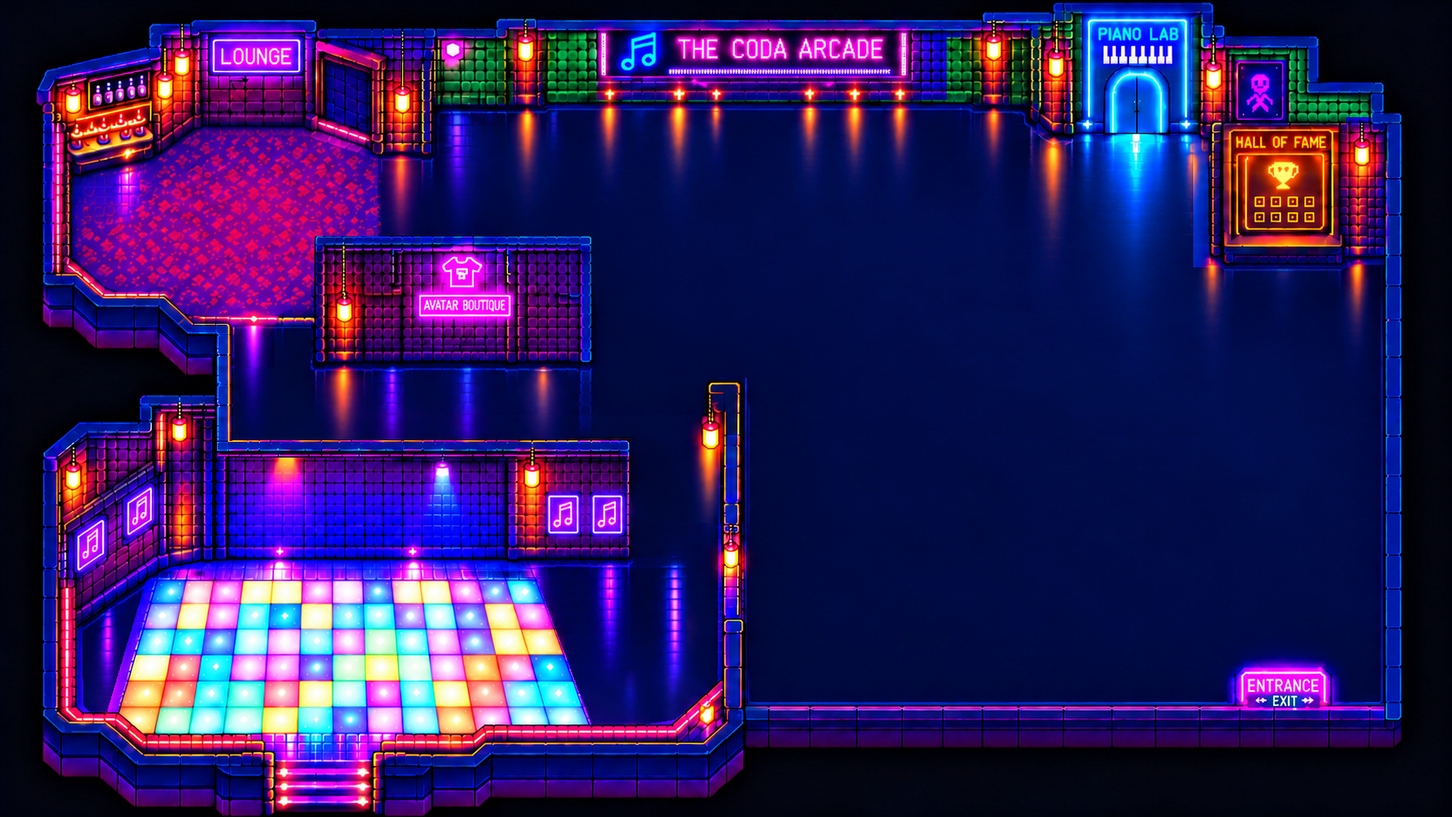
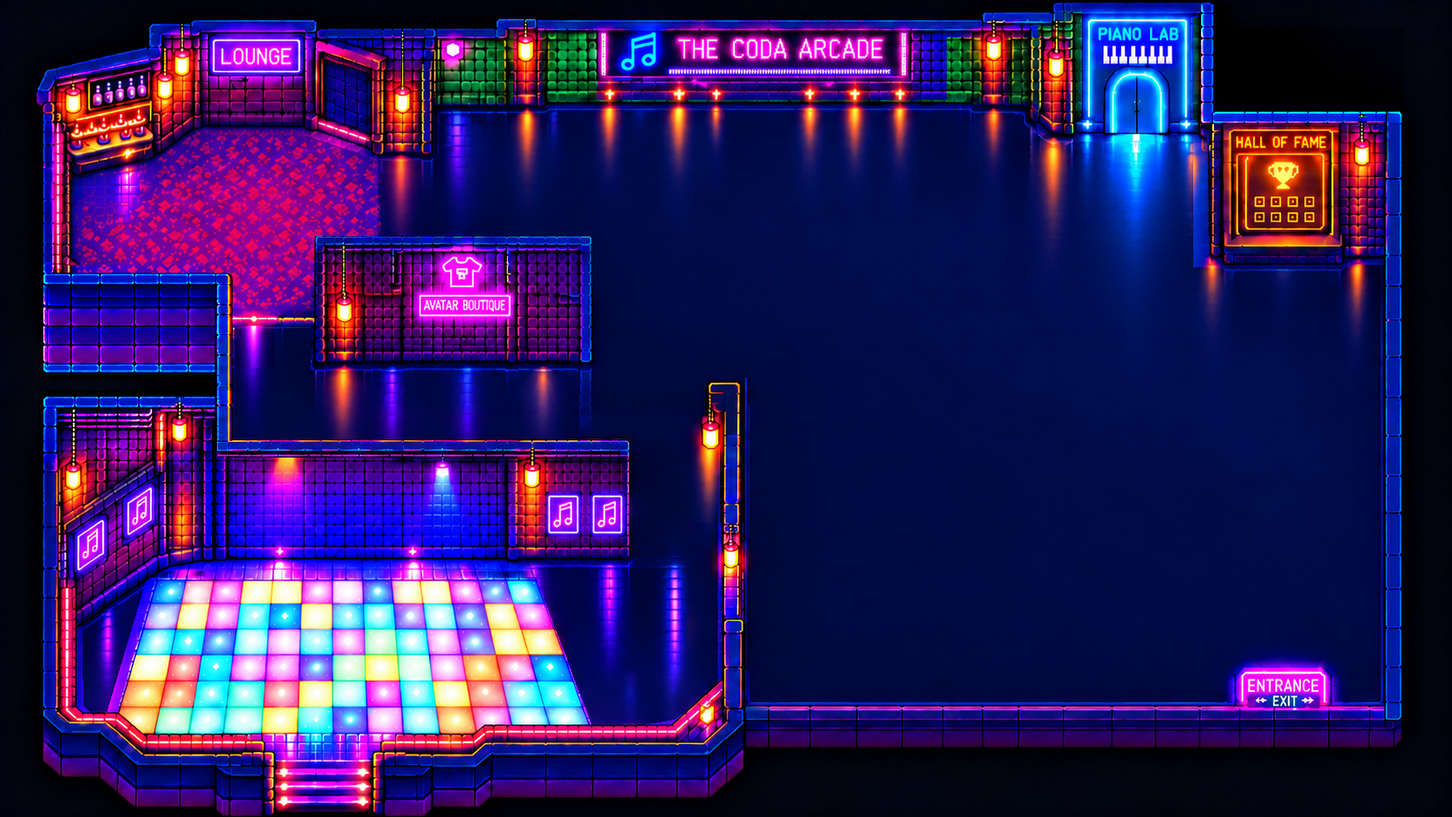
Connect wall roof caps and reshape the Hall of Fame exterior

Changed region(s): [[0.0311, 0.3082, 0.1866, 0.5855], [0.8086, 0.0, 0.9641, 0.2465]]

diff --git a/world-preview.html b/world-preview.html
@@ -28,7 +28,7 @@
 #assetStudio{position:fixed;left:12px;top:80px;z-index:65;width:min(334px,calc(100vw - 24px));max-height:calc(100dvh - 99px);overflow:auto;background:#171529f5;border:1px solid #eac17d;box-shadow:0 12px 50px #05010de0,0 0 22px #fdac4a24;border-radius:12px;padding:13px;color:#f8efff;font:12px system-ui;backdrop-filter:blur(9px)}
 #assetStudio[hidden]{display:none}#assetStudio .studioHead{display:flex;align-items:center;justify-content:space-between;color:#ffe4a4;font-size:14px;gap:9px;margin-bottom:7px}#assetStudio .studioActions{display:flex;flex-wrap:wrap;gap:5px;margin:7px 0}#assetStudio button{font:inherit;min-height:28px;padding:5px 7px}#assetStudio .studioActions button{flex:1 0 90px}#assetStudio button:disabled{opacity:.36;cursor:not-allowed}#assetStudio hr{border:0;border-top:1px solid #655374;margin:13px 0}#assetStudio .studioField{display:grid;gap:3px;margin:7px 0}#assetStudio .studioField>label{font-weight:650;color:#dccdf3}#assetStudio input:not([type=checkbox]),#assetStudio select{background:#131024;border:1px solid #866e9b;color:#fff;padding:7px;border-radius:5px;width:100%;font:inherit;min-width:0}#assetStudio input[type=checkbox]{accent-color:#f9c880}#assetStudio .studioGrid{display:grid;grid-template-columns:1fr 1fr;gap:8px}#assetStudio .studioTip{color:#c9b9d6;line-height:1.45;font-size:11px;margin:6px 0}#assetStudio #assetList{height:108px;padding:2px}#assetStudio #assetList option{padding:6px}#assetStudio #assetMessage{color:#bbf5e5;min-height:18px;overflow-wrap:anywhere}#assetStudio #assetSelection[hidden]{display:none}#assetStudio .studioCheck{display:inline-flex;align-items:center;gap:6px;margin:5px 11px 5px 0}#assetStudio .studioCollapsible{border:1px solid #655374;border-radius:7px;padding:8px}#assetStudio summary{cursor:pointer;color:#ffe4b1;font-weight:650}#assetToggle{border-color:#eecc7c}#view.asset-editing{cursor:crosshair;touch-action:none}#assetStudio #assetAdd{background:#675022;border-color:#e8b85c}#assetStudio #assetImport{border-color:#80d3ed}#assetStudio #assetExport{border-color:#80d3ed}#assetStudio #assetHelp{background:#271d3c}#assetStudio .studioHot{color:#ffcfa4}body.asset-console-open #layerEditor{display:none!important}@media(max-width:650px){#assetStudio{top:120px;max-height:calc(100dvh - 138px)}}
 /* DJ unlocks */ #panel .jukebox-track-locked{background:#79788612;border-radius:8px;padding:8px}#panel .jukebox-track-locked strong,#panel .jukebox-track-locked small{color:#a6a6b8}#panel .jukebox-track-locked [data-dj-requirement]{color:#e9d29e}
-</style><link rel="stylesheet" href="mobile-controls.css?v=controls-81"><link rel="stylesheet" href="world-mobile.css?v=dialogue-1"><script src="mobile-controls.js?v=joystick-41"></script><script src="finger-follow.js?v=student-29"></script><link rel="stylesheet" href="reward-notifications.css?v=music-30"><script src="reward-notifications.js?v=music-30"></script><link rel="stylesheet" href="developer-console.css?v=rugs-flip-20261031-1"><link rel="stylesheet" href="musician-ui.css?v=dialogue-1"><link rel="stylesheet" href="boutique-ui.css?v=avatar-50"><script src="collision-editor.js?v=mobile-28"></script><script src="world-object-catalog.js?v=floor-61"></script><script src="fishing-entrance.js?v=fishing-31"></script><script src="world-object-runtime.js?v=rugs-flip-20261031-1"></script><script src="world-lighting.js?v=boutique-rectangle-20261031-1"></script><script src="dj-floodlights.js?v=stage-lights-20261031-1"></script><script src="dance-floor.js?v=aligned-dance-20261031-1"></script><script src="floor-stars.js?v=glass-stars-20261031-1"></script><script src="dance-rhythm-engine.js?v=play-97"></script><script src="dance-floor-stage.js?v=dance-95"></script><script src="dj-library.js?v=dj-96"></script><link rel="stylesheet" href="dialogue-editor.css?v=music-30"><script src="dialogue-editor.js?v=music-30"></script><link rel="stylesheet" href="pixel-editor.css?v=pixels-103"><script src="pixel-selection.js?v=smooth-mask-1"></script><script src="layer-selection.js?v=layer-selection-20261030-1"></script><script src="pixel-editor.js?v=smooth-mask-1"></script><script src="world-floor-grid.js?v=flat-75"></script><link rel="stylesheet" href="education-editor.css?v=author-101"><link rel="stylesheet" href="education-visual-editor.css?v=author-101"><script src="education-visual-editor.js?v=author-101"></script><script src="education-editor.js?v=author-101"></script><link rel="stylesheet" href="music-history-editor.css?v=facts-20261029-1"><script src="music-history-editor.js?v=facts-20261029-1"></script><script src="main-counter-palette.js?v=emerald-20261031-1"></script><script src="environment-art.js?v=reflected-walls-20261031-1"></script><script src="world-character-editor.js?v=selected-order-20261030-1"></script><link rel="stylesheet" href="decor-library.css?v=decor-20261030-1"><script src="decor-library.js?v=rugs-flip-20261031-1"></script><script src="floor-palette-compat.js?v=glass-fringe-20261031-1"></script><script src="pathway-floor-fill.js?v=boutique-pathway-20261031-1"></script><script src="wall-reflections.js?v=reflected-walls-20261031-1"></script><script src="developer-console.js?v=reflected-walls-20261031-1"></script><script src="npc-visitors.js?v=visitors-42"></script><script src="npc-behavior.js?v=composers-2"></script><script src="pet-companion.js?v=premium-42"></script><script src="character-renderer.js?v=scholar-1"></script><link rel="stylesheet" href="artwork-editor.css?v=selection-edit-20261030-1"><script src="artwork-editor.js?v=feather-20261030-1"></script><script src="character-artwork-adapter.js?v=pixels-64"></script><script src="world-artwork-tools.js?v=glass-fringe-20261031-1"></script><script src="world-layer-renderer.js?v=rugs-flip-20261031-1"></script><link rel="stylesheet" href="musician-trivia.css?v=music-30"><script src="musician-trivia.js?v=music-30"></script><script src="musician-ui.js?v=dialogue-1"></script><script src="boutique-ui.js?v=classroom-54"></script><link rel="stylesheet" href="notes-shop.css?v=avatar-50"><link rel="stylesheet" href="music-notation.css?v=fishing-31"><script src="music-notation.js?v=fishing-31"></script><link rel="stylesheet" href="education-notation.css?v=education-90"><script src="education-notation.js?v=lessons-93"></script><script src="piano-wall-notation.js?v=learning-48"></script><link rel="stylesheet" href="room-developer-editor.css?v=pixels-64"><script src="room-developer-editor.js?v=rugs-flip-20261031-1"></script><link rel="stylesheet" href="rhythm-fishing.css?v=dialogue-1"><script src="rhythm-fishing-engine.js?v=fishing-47"></script><script src="fishing-progress.js?v=fishing-31"></script><script src="fishing-cave-layout.js?v=cave-32"></script><script src="fishing-cave-effects.js?v=cave-32"></script><script src="fish-shadow-motion.js?v=cave-32"></script><script src="rhythm-beaming.js?v=fishing-34"></script><link rel="stylesheet" href="dance-rhythm-game.css?v=play-97"><script src="dance-rhythm-game.js?v=play-97"></script><script src="dance-floor-world.js?v=play-97"></script><link rel="stylesheet" href="cave-camera.css?v=mobile-36"><script src="cave-camera.js?v=mobile-36"></script><link rel="stylesheet" href="fishing-battle.css?v=fishing-34"><script src="fishing-battle.js?v=mobile-36"></script><script src="fishing-music.js?v=music-42"></script><script src="fishing-boat.js?v=mobile-36"></script><script src="fishing-rhythm-input.js?v=controls-37"></script><link rel="stylesheet" href="fishing-practice.css?v=controls-37"><script src="fishing-practice.js?v=controls-37"></script><script src="rhythm-fishing.js?v=dialogue-1"></script><link rel="stylesheet" href="piano-lab.css?v=dialogue-1"><link rel="stylesheet" href="music-classroom.css?v=learning-48"><script src="notes-shop.js?v=profiles-87"></script><script src="room-fullscreen.js?v=learning-48"></script><script src="piano-melodies.js?v=learning-48"></script><script src="piano-lab.js?v=dialogue-1"></script><link rel="stylesheet" href="classroom-tutorials.css?v=lessons-93"><link rel="stylesheet" href="time-signature-lesson.css?v=lessons-51"><script src="time-signature-lesson.js?v=education-90"></script><link rel="stylesheet" href="classroom-quiz.css?v=learning-48"><script src="classroom-keyboard.js?v=author-101"></script><script src="classroom-quiz-pool.js?v=classroom-97"></script><script src="classroom-quiz.js?v=author-101"></script><script src="final-exam-bank.js?v=exam-86"></script><script src="classroom-curriculum-staff.js?v=keyboard-99"></script><script src="classroom-curriculum-rhythm.js?v=lessons-93"></script><script src="classroom-curriculum-expression.js?v=keyboard-99"></script><script src="classroom-exam-curriculum.js?v=keyboard-99"></script><link rel="stylesheet" href="classroom-exam-study.css?v=lessons-102"><script src="classroom-exam-study.js?v=author-101"></script><script src="classroom-accidentals-lesson.js?v=keyboard-99"></script><script src="classroom-tutorials.js?v=author-101"></script><link rel="stylesheet" href="final-exam.css?v=lessons-93"><script src="classroom-understanding-basics.js?v=classroom-97"></script><script src="classroom-understanding-staff.js?v=classroom-97"></script><script src="classroom-learning-paths-data.js?v=author-101"></script><script src="education-content.js?v=lessons-102"></script><link rel="stylesheet" href="classroom-learning-paths.css?v=lessons-93"><script src="classroom-learning-paths.js?v=author-101"></script><script src="final-exam.js?v=author-101"></script><script src="music-classroom.js?v=dialogue-1"></script><link rel="stylesheet" href="player-progression.css?v=mobile-28"><link rel="stylesheet" href="hall-of-fame.css?v=achievements-89"><link rel="stylesheet" href="arcade-vibes.css?v=vibes-82"><script src="arcade-vibes.js?v=vibes-84"></script><script src="player-progression.js?v=dj-96"></script><script src="achievement-catalog.js?v=dj-96"></script><link rel="stylesheet" href="player-profile.css?v=student-29"><script src="player-profile.js?v=quests-82"></script><script src="hall-of-fame.js?v=achievements-89"></script><script src="musician-missions.js?v=quests-82"></script><script src="song-machine/sound-library.js?v=mobile-28"></script><link rel="stylesheet" href="play-notebook.css?v=play-97"><script src="changelog-data.js?v=console-fullscreen-20261029-1"></script><script src="play-notebook.js?v=play-97"></script><header><b>♫ CODA ARCADE · CONNECTED WORLD / WORLD BUILDER</b><span><a href="classic-arcade.html">← Original arcade</a> &nbsp; <button id="levelBtn" type="button" aria-label="Your profile">Profile · Level 1</button> <button id="hallFameBtn" type="button">Hall of Fame</button> <button id="notesBtn" type="button" aria-label="Open Notes shop">♫ 150 Notes</button> <button id="pianoLabBtn" type="button">Piano Lab</button> <button id="classroomBtn" type="button">Classroom</button> <button id="fishingBtn" type="button">Rhythm Fishing</button> <button id="accountBtn">◉ Guest</button> <button id="jukeboxBtn">♫ Jukebox</button> <button id="assetToggle" type="button" title="Open Asset Studio (Shift+A)">✥ Assets</button> <button id="editorToggle" type="button" title="Edit pixel foreground layers (Shift+L)">✎ Layers</button> <button id="musicBtn" type="button" aria-pressed="false" title="Play or stop optional original arcade groove">♫ Music: Off</button> <button id="fxBtn" type="button" title="Choose full, lite or off visual effects">✧ FX: Full</button> <span id="cameraTools" role="group" aria-label="Camera zoom controls"><button type="button" id="zoomOut" title="Zoom out (−)" aria-label="Zoom out">−</button><button type="button" id="zoomReset" title="Reset camera zoom (0)" aria-label="Reset zoom to 100%">100%</button><button type="button" id="zoomIn" title="Zoom in (+)" aria-label="Zoom in">+</button></span> <button id="fs">⛶ Fullscreen</button></span></header><main id="worldStage" aria-label="Arcade world"><canvas id="view" width="1672" height="941" tabindex="0" aria-label="Connected arcade. Move with WASD or arrow keys. Press Space to jump and E to interact."></canvas></main><footer><span>WASD / arrows · Walk · Space · Jump · Wheel / + / − Zoom · 0 Reset · F2 Developer console · C Edit collision · Shift+L Edit layers · Right-drag to pan in editor &nbsp; E · Interact &nbsp; Q · Emote · P · Play notes · Click to walk · Touch and drag to steer</span><span id="status">Phase 11 · asset studio · animations · layers · C collision · L layers</span></footer><aside id="layerEditor" hidden aria-label="Foreground layer painting editor">
+</style><link rel="stylesheet" href="mobile-controls.css?v=controls-81"><link rel="stylesheet" href="world-mobile.css?v=dialogue-1"><script src="mobile-controls.js?v=joystick-41"></script><script src="finger-follow.js?v=student-29"></script><link rel="stylesheet" href="reward-notifications.css?v=music-30"><script src="reward-notifications.js?v=music-30"></script><link rel="stylesheet" href="developer-console.css?v=rugs-flip-20261031-1"><link rel="stylesheet" href="musician-ui.css?v=dialogue-1"><link rel="stylesheet" href="boutique-ui.css?v=avatar-50"><script src="collision-editor.js?v=mobile-28"></script><script src="world-object-catalog.js?v=floor-61"></script><script src="fishing-entrance.js?v=fishing-31"></script><script src="world-object-runtime.js?v=rugs-flip-20261031-1"></script><script src="world-lighting.js?v=roof-caps-20261031-1"></script><script src="dj-floodlights.js?v=stage-lights-20261031-1"></script><script src="dance-floor.js?v=aligned-dance-20261031-1"></script><script src="floor-stars.js?v=glass-stars-20261031-1"></script><script src="dance-rhythm-engine.js?v=play-97"></script><script src="dance-floor-stage.js?v=dance-95"></script><script src="dj-library.js?v=dj-96"></script><link rel="stylesheet" href="dialogue-editor.css?v=music-30"><script src="dialogue-editor.js?v=music-30"></script><link rel="stylesheet" href="pixel-editor.css?v=pixels-103"><script src="pixel-selection.js?v=smooth-mask-1"></script><script src="layer-selection.js?v=layer-selection-20261030-1"></script><script src="pixel-editor.js?v=smooth-mask-1"></script><script src="world-floor-grid.js?v=flat-75"></script><link rel="stylesheet" href="education-editor.css?v=author-101"><link rel="stylesheet" href="education-visual-editor.css?v=author-101"><script src="education-visual-editor.js?v=author-101"></script><script src="education-editor.js?v=author-101"></script><link rel="stylesheet" href="music-history-editor.css?v=facts-20261029-1"><script src="music-history-editor.js?v=facts-20261029-1"></script><script src="main-counter-palette.js?v=emerald-20261031-1"></script><script src="environment-art.js?v=roof-caps-20261031-1"></script><script src="world-character-editor.js?v=selected-order-20261030-1"></script><link rel="stylesheet" href="decor-library.css?v=decor-20261030-1"><script src="decor-library.js?v=rugs-flip-20261031-1"></script><script src="floor-palette-compat.js?v=glass-fringe-20261031-1"></script><script src="pathway-floor-fill.js?v=boutique-pathway-20261031-1"></script><script src="wall-reflections.js?v=reflected-walls-20261031-1"></script><script src="developer-console.js?v=reflected-walls-20261031-1"></script><script src="npc-visitors.js?v=visitors-42"></script><script src="npc-behavior.js?v=composers-2"></script><script src="pet-companion.js?v=premium-42"></script><script src="character-renderer.js?v=scholar-1"></script><link rel="stylesheet" href="artwork-editor.css?v=selection-edit-20261030-1"><script src="artwork-editor.js?v=feather-20261030-1"></script><script src="character-artwork-adapter.js?v=pixels-64"></script><script src="world-artwork-tools.js?v=glass-fringe-20261031-1"></script><script src="world-layer-renderer.js?v=rugs-flip-20261031-1"></script><link rel="stylesheet" href="musician-trivia.css?v=music-30"><script src="musician-trivia.js?v=music-30"></script><script src="musician-ui.js?v=dialogue-1"></script><script src="boutique-ui.js?v=classroom-54"></script><link rel="stylesheet" href="notes-shop.css?v=avatar-50"><link rel="stylesheet" href="music-notation.css?v=fishing-31"><script src="music-notation.js?v=fishing-31"></script><link rel="stylesheet" href="education-notation.css?v=education-90"><script src="education-notation.js?v=lessons-93"></script><script src="piano-wall-notation.js?v=learning-48"></script><link rel="stylesheet" href="room-developer-editor.css?v=pixels-64"><script src="room-developer-editor.js?v=rugs-flip-20261031-1"></script><link rel="stylesheet" href="rhythm-fishing.css?v=dialogue-1"><script src="rhythm-fishing-engine.js?v=fishing-47"></script><script src="fishing-progress.js?v=fishing-31"></script><script src="fishing-cave-layout.js?v=cave-32"></script><script src="fishing-cave-effects.js?v=cave-32"></script><script src="fish-shadow-motion.js?v=cave-32"></script><script src="rhythm-beaming.js?v=fishing-34"></script><link rel="stylesheet" href="dance-rhythm-game.css?v=play-97"><script src="dance-rhythm-game.js?v=play-97"></script><script src="dance-floor-world.js?v=play-97"></script><link rel="stylesheet" href="cave-camera.css?v=mobile-36"><script src="cave-camera.js?v=mobile-36"></script><link rel="stylesheet" href="fishing-battle.css?v=fishing-34"><script src="fishing-battle.js?v=mobile-36"></script><script src="fishing-music.js?v=music-42"></script><script src="fishing-boat.js?v=mobile-36"></script><script src="fishing-rhythm-input.js?v=controls-37"></script><link rel="stylesheet" href="fishing-practice.css?v=controls-37"><script src="fishing-practice.js?v=controls-37"></script><script src="rhythm-fishing.js?v=dialogue-1"></script><link rel="stylesheet" href="piano-lab.css?v=dialogue-1"><link rel="stylesheet" href="music-classroom.css?v=learning-48"><script src="notes-shop.js?v=profiles-87"></script><script src="room-fullscreen.js?v=learning-48"></script><script src="piano-melodies.js?v=learning-48"></script><script src="piano-lab.js?v=dialogue-1"></script><link rel="stylesheet" href="classroom-tutorials.css?v=lessons-93"><link rel="stylesheet" href="time-signature-lesson.css?v=lessons-51"><script src="time-signature-lesson.js?v=education-90"></script><link rel="stylesheet" href="classroom-quiz.css?v=learning-48"><script src="classroom-keyboard.js?v=author-101"></script><script src="classroom-quiz-pool.js?v=classroom-97"></script><script src="classroom-quiz.js?v=author-101"></script><script src="final-exam-bank.js?v=exam-86"></script><script src="classroom-curriculum-staff.js?v=keyboard-99"></script><script src="classroom-curriculum-rhythm.js?v=lessons-93"></script><script src="classroom-curriculum-expression.js?v=keyboard-99"></script><script src="classroom-exam-curriculum.js?v=keyboard-99"></script><link rel="stylesheet" href="classroom-exam-study.css?v=lessons-102"><script src="classroom-exam-study.js?v=author-101"></script><script src="classroom-accidentals-lesson.js?v=keyboard-99"></script><script src="classroom-tutorials.js?v=author-101"></script><link rel="stylesheet" href="final-exam.css?v=lessons-93"><script src="classroom-understanding-basics.js?v=classroom-97"></script><script src="classroom-understanding-staff.js?v=classroom-97"></script><script src="classroom-learning-paths-data.js?v=author-101"></script><script src="education-content.js?v=lessons-102"></script><link rel="stylesheet" href="classroom-learning-paths.css?v=lessons-93"><script src="classroom-learning-paths.js?v=author-101"></script><script src="final-exam.js?v=author-101"></script><script src="music-classroom.js?v=dialogue-1"></script><link rel="stylesheet" href="player-progression.css?v=mobile-28"><link rel="stylesheet" href="hall-of-fame.css?v=achievements-89"><link rel="stylesheet" href="arcade-vibes.css?v=vibes-82"><script src="arcade-vibes.js?v=vibes-84"></script><script src="player-progression.js?v=dj-96"></script><script src="achievement-catalog.js?v=dj-96"></script><link rel="stylesheet" href="player-profile.css?v=student-29"><script src="player-profile.js?v=quests-82"></script><script src="hall-of-fame.js?v=achievements-89"></script><script src="musician-missions.js?v=quests-82"></script><script src="song-machine/sound-library.js?v=mobile-28"></script><link rel="stylesheet" href="play-notebook.css?v=play-97"><script src="changelog-data.js?v=console-fullscreen-20261029-1"></script><script src="play-notebook.js?v=play-97"></script><header><b>♫ CODA ARCADE · CONNECTED WORLD / WORLD BUILDER</b><span><a href="classic-arcade.html">← Original arcade</a> &nbsp; <button id="levelBtn" type="button" aria-label="Your profile">Profile · Level 1</button> <button id="hallFameBtn" type="button">Hall of Fame</button> <button id="notesBtn" type="button" aria-label="Open Notes shop">♫ 150 Notes</button> <button id="pianoLabBtn" type="button">Piano Lab</button> <button id="classroomBtn" type="button">Classroom</button> <button id="fishingBtn" type="button">Rhythm Fishing</button> <button id="accountBtn">◉ Guest</button> <button id="jukeboxBtn">♫ Jukebox</button> <button id="assetToggle" type="button" title="Open Asset Studio (Shift+A)">✥ Assets</button> <button id="editorToggle" type="button" title="Edit pixel foreground layers (Shift+L)">✎ Layers</button> <button id="musicBtn" type="button" aria-pressed="false" title="Play or stop optional original arcade groove">♫ Music: Off</button> <button id="fxBtn" type="button" title="Choose full, lite or off visual effects">✧ FX: Full</button> <span id="cameraTools" role="group" aria-label="Camera zoom controls"><button type="button" id="zoomOut" title="Zoom out (−)" aria-label="Zoom out">−</button><button type="button" id="zoomReset" title="Reset camera zoom (0)" aria-label="Reset zoom to 100%">100%</button><button type="button" id="zoomIn" title="Zoom in (+)" aria-label="Zoom in">+</button></span> <button id="fs">⛶ Fullscreen</button></span></header><main id="worldStage" aria-label="Arcade world"><canvas id="view" width="1672" height="941" tabindex="0" aria-label="Connected arcade. Move with WASD or arrow keys. Press Space to jump and E to interact."></canvas></main><footer><span>WASD / arrows · Walk · Space · Jump · Wheel / + / − Zoom · 0 Reset · F2 Developer console · C Edit collision · Shift+L Edit layers · Right-drag to pan in editor &nbsp; E · Interact &nbsp; Q · Emote · P · Play notes · Click to walk · Touch and drag to steer</span><span id="status">Phase 11 · asset studio · animations · layers · C collision · L layers</span></footer><aside id="layerEditor" hidden aria-label="Foreground layer painting editor">
   <div class="editorbanner"><b>✎ FOREGROUND EDITOR</b><button id="editClose" type="button">✕</button></div>
   <div class="mini">Paint with pixels from the existing arcade artwork. Erase removes unwanted foreground coverage; the floor stays unchanged.</div>
   <div class="editorline"><button type="button" id="editPaint" class="current">🖌 Paint</button><button type="button" id="editErase">⌫ Erase</button></div>
@@ -2427,6 +2427,7 @@ worldObjects=window.createCodaWorldObjects({catalog:[...window.CodaWorldObjectCa
 worldLighting=window.createCodaWorldLighting({
  width:W,height:H,getTime:()=>lightingClock,getQuality:()=>fxMode,getBeat:beatInfo,isWalkable:inside,getBeamRaster:()=>({width:ambientLightCanvas.width,height:ambientLightCanvas.height,refreshHz:24}),getMapRevision:()=>navigationRevision,reducedMotion:()=>reduceMotion,
  getLanternPosition:id=>refreshedEnvironment()?(id==='boutique-west'?{x:397,y:359}:id==='dance-stage-east'?{x:613,y:549}:null):null,
+ isLanternVisible:id=>!refreshedEnvironment()||id!=='piano-east',
  getBallStates:()=>DISCO_BALLS.map((ball,index)=>{
   const part=window.CodaWorldObjectCatalog.find(p=>p.ballIndex===index),object=worldObjects.state(part.name),asset=object.asset;
   return {id:part.name,x:ball.x,y:ball.y,radius:ball.r,spin:asset?.discoSpin??ball.spin,seed:ball.seed,club:ball.club===true,
@@ -2574,7 +2575,7 @@ developerConsole=window.createCodaDeveloperConsole({historyProgress:()=>musicHis
  getPixelTargets:()=>[{id:'player',name:'Your avatar'},...npc.map(person=>({id:person.id,name:person.name})),{id:'dj',name:'DJ Coda'},{id:'scholar',name:'The Scholar'}],
  W,H,c,studio:assetStudio,layer:layerState,getForegroundMask:()=>assetForegroundComposite(),getPaintPaths:()=>layerState.patches.map(patch=>patch.path),parts:foregroundParts,catalog:window.CodaWorldObjectCatalog,worldArt,foregroundArt,floorArt,
  getReflectionQuality:()=>fxMode,
- publishedProjectUrl:'published-world-project.json?v=reflected-walls-20261031-1',
+ publishedProjectUrl:'published-world-project.json?v=roof-caps-20261031-1',
  paletteCompatUrl:'assets/environment/floor-palette-compat.json?v=reflected-walls-20261031-1',
  pathwayFloorFillUrl:'assets/environment/boutique-pathway-shape.json?v=boutique-pathway-20261031-1',
  cell:COLLISION_CELL,gridWidth:GRID_W,gridHeight:GRID_H,navGrid,baseGrid:defaultNavGrid,

diff --git a/environment-art.js b/environment-art.js
@@ -78,7 +78,7 @@
      finish();
     }catch(error){finish(Error('Environment artwork could not decode: '+file+'. '+(error.message||'')));}
    }
-   image.addEventListener('load',onload);image.addEventListener('error',onerror);image.src=baseUrl+file+((file===BACKGROUND||file==='main-counter.png')?'?v=reflected-walls-20261031-1':'');
+   image.addEventListener('load',onload);image.addEventListener('error',onerror);image.src=baseUrl+file+((file===BACKGROUND||file==='main-counter.png')?'?v=roof-caps-20261031-1':'');
    if(image.complete&&image.naturalWidth)onload();
   }));
   const ready=Promise.all(tasks).then(()=>{loaded=true;});

diff --git a/world-lighting.js b/world-lighting.js
@@ -75,7 +75,7 @@
       return LANTERNS.map((lamp, i) => {
         const position=api.getLanternPosition?.(lamp.id);
         return {...lamp,x:finite(position?.x,lamp.x),y:finite(position?.y,lamp.y),intensity:quiet() ? .65 : clamp(.48 + .43 * Math.sin(t * 1.65 + i * .79) + bass * .09, .10, 1)};
-      });
+      }).filter(lamp=>api.isLanternVisible?.(lamp.id)!==false);
     }
     function getGeometry() {
       const q = quality(), now = time(), reduced = quiet(), source = api.getBallStates?.() || [];

diff --git a/tests/boutique-join-browser.py b/tests/boutique-join-browser.py
@@ -1,4 +1,4 @@
-"""The canonical join and final corner caps match their reviewed art sources."""
+"""Reviewed architectural passes retain pixel-exact ownership and save data."""
 import importlib.util
 import json
 from pathlib import Path
@@ -20,31 +20,37 @@ class BoutiqueJoinTests(unittest.TestCase):
     project=fixture.FloorPaletteCompatibilityTests.project
 
     def test_native_join_and_runtime_base_match_reviewed_source_without_new_local_saves(self):
-        meta=json.loads((fixture.ROOT/'scripts/boutique-join-regions.json').read_text())
-        cap=json.loads((fixture.ROOT/'scripts/boutique-corner-cap-regions.json').read_text())
+        layers=[json.loads((fixture.ROOT/'scripts'/name).read_text()) for name in [
+            'boutique-join-regions.json','boutique-corner-cap-regions.json',
+            'hall-roof-cap-regions.json','lounge-club-roof-regions.json']]
         self.load()
-        result=self.page.evaluate('''async({meta,cap})=>{
+        result=self.page.evaluate('''async layers=>{
           const load=src=>new Promise((resolve,reject)=>{const image=new Image();image.onload=()=>resolve(image);image.onerror=reject;image.src=src;});
-          const [native,reviewed,corner]=await Promise.all([load(meta.output),load(meta.source),load(cap.source)]),[w,h]=meta.worldSize;
+          const [native,...sources]=await Promise.all([load(layers[0].output),...layers.map(meta=>load(meta.source))]),[w,h]=layers[0].worldSize;
           const canvas=()=>{const c=document.createElement('canvas');c.width=w;c.height=h;return c;};
-          const a=canvas(),b=canvas(),c=canvas(),d=canvas();a.getContext('2d').drawImage(native,0,0);b.getContext('2d').drawImage(reviewed,0,0);__paletteConsole.renderBase(c.getContext('2d'));
-          const dc=d.getContext('2d');dc.imageSmoothingEnabled=false;dc.drawImage(corner,...cap.sourcePlacement);
-          const aa=a.getContext('2d').getImageData(0,0,w,h).data,bb=b.getContext('2d').getImageData(0,0,w,h).data,cc=c.getContext('2d').getImageData(0,0,w,h).data,dd=dc.getImageData(0,0,w,h).data;
+          const a=canvas(),c=canvas();a.getContext('2d').drawImage(native,0,0);__paletteConsole.renderBase(c.getContext('2d'));
+          const aa=a.getContext('2d').getImageData(0,0,w,h).data,cc=c.getContext('2d').getImageData(0,0,w,h).data;
+          const expectedPixels=sources.map((source,index)=>{const c=canvas(),g=c.getContext('2d');g.imageSmoothingEnabled=false;g.drawImage(source,...(layers[index].sourcePlacement||[0,0,w,h]));return g.getImageData(0,0,w,h).data;});
           const inPolygon=(poly,x,y)=>{let hit=false;for(let i=0,j=poly.length-1;i<poly.length;j=i++){
             const [ax,ay]=poly[i],[bx,by]=poly[j];if((ay>y)!==(by>y)&&x<(bx-ax)*(y-ay)/(by-ay)+ax)hit=!hit;
           }return hit;};
-          let joinCount=0,capCount=0,preservedJoinCount=0,nativeMismatch=0,baseMismatch=0;
+          const owns=(meta,x,y)=>meta.polygons.some(p=>inPolygon(p,x+.5,y+.5))&&!(meta.protectedPolygons||[]).some(p=>inPolygon(p,x+.5,y+.5))&&!(meta.protectedBounds||[]).some(([left,top,width,height])=>x>=left&&x<left+width&&y>=top&&y<top+height);
+          const maskCounts=layers.map(()=>0),ownerCounts=layers.map(()=>0);let nativeMismatch=0,baseMismatch=0;
           for(let y=0;y<h;y++)for(let x=0;x<w;x++){
-            const inJoin=meta.polygons.some(p=>inPolygon(p,x+.5,y+.5)),inCap=cap.polygons.some(p=>inPolygon(p,x+.5,y+.5));
-            if(inJoin)joinCount++;if(inCap)capCount++;if(inJoin&&!inCap)preservedJoinCount++;
-            if(!inJoin&&!inCap)continue;
-            const at=(y*w+x)*4,expected=inCap?dd:bb;
+            let owner=-1;for(let index=0;index<layers.length;index++)if(owns(layers[index],x,y)){maskCounts[index]++;owner=index;}
+            if(owner<0)continue;ownerCounts[owner]++;
+            const at=(y*w+x)*4,expected=expectedPixels[owner];
             if([0,1,2,3].some(k=>aa[at+k]!==expected[at+k]))nativeMismatch++;
             if([0,1,2,3].some(k=>cc[at+k]!==expected[at+k]))baseMismatch++;
           }
-          return {joinCount,capCount,preservedJoinCount,nativeMismatch,baseMismatch,source:CodaDeveloperConsole.getProjectSource(),local:localStorage.getItem('codaWorldProjectV1')};
-        }''',{'meta':meta,'cap':cap})
-        self.assertEqual(result,{'joinCount':26000,'capCount':5141,'preservedJoinCount':22718,'nativeMismatch':0,'baseMismatch':0,'source':'published','local':None})
+          return {maskCounts,ownerCounts,nativeMismatch,baseMismatch,source:CodaDeveloperConsole.getProjectSource(),local:localStorage.getItem('codaWorldProjectV1')};
+        }''',layers)
+        self.assertEqual(result['maskCounts'][:2],[26000,5141])
+        self.assertTrue(all(count>0 for count in result['ownerCounts']),result)
+        self.assertEqual(result['nativeMismatch'],0,result)
+        self.assertEqual(result['baseMismatch'],0,result)
+        self.assertEqual(result['source'],'published')
+        self.assertIsNone(result['local'])
         self.assertEqual(self.project(),self.current,'Loading canonical artwork must not rewrite the project or collision entries')
 
 

diff --git a/tests/environment-world-browser.py b/tests/environment-world-browser.py
@@ -12,7 +12,7 @@ spec = importlib.util.spec_from_file_location('environment_world_fixture',
     Path(__file__).with_name('published-world-browser.py'))
 fixture = importlib.util.module_from_spec(spec)
 spec.loader.exec_module(fixture)
[2 lines of base64/hex data omitted]
 
 
 class EnvironmentWorldTests(unittest.TestCase):
@@ -85,7 +85,7 @@ class EnvironmentWorldTests(unittest.TestCase):
         self.assertEqual(self.page.evaluate('CodaDeveloperConsole.getScenery()'),'environment-v1')
         self.assertEqual(self.page.evaluate('CodaDeveloperConsole.getProjectSource()'),'published')
         self.assertIsNone(self.page.evaluate('localStorage.getItem("codaWorldProjectV1")'))
-        self.assertEqual((len(self.current['assets']),len(self.current['collision']),len(self.current['strokes'])),(59,2362,26))
+        self.assertEqual((len(self.current['assets']),len(self.current['collision']),len(self.current['strokes'])),(59,2391,26))
         layers=self.page.evaluate('CodaArcadeQA.layerEditor()')
         self.assertEqual((layers['publishedStrokes'],layers['strokes']),(0,26))
         self.assertGreater(layers['paintPatches'],0)

diff --git a/tests/pathway-floor-fill-browser.py b/tests/pathway-floor-fill-browser.py
@@ -150,6 +150,10 @@ open.onerror=()=>reject(open.error);open.onsuccess=()=>{const db=open.result,tx=
             self.assertFalse(self.page.evaluate('p=>CodaArcadeQA.walkable(...p)',[x,y]),(x,y))
         for point in [(535,285),(535,315),(535,335),(345,295)]:
             self.assertTrue(self.page.evaluate('p=>CodaArcadeQA.walkable(...p)',point),point)
+        self.assertTrue(self.page.evaluate('CodaArcadeQA.walkable(200,305)'),
+                        'The lounge carpet stays open above the new straight wall')
+        self.assertFalse(self.page.evaluate('CodaArcadeQA.walkable(200,325)'),
+                         'The new straight lounge roof/wall blocks the player')
         self.assertTrue(self.page.evaluate('CodaArcadeQA.place(335,385)'))
         self.page.locator('#view').focus()
         self.page.keyboard.down('d')

diff --git a/ENVIRONMENT-ART.md b/ENVIRONMENT-ART.md
@@ -145,6 +145,16 @@ and their continuous inner/outer neon trim. Its cropped generated source has
 an explicit native placement; only the narrow reviewed cap mask is copied.
 The surrounding floor, fixtures and collision remain as reviewed.
 
+The final Hall/loungeroof passes follow the later orthogonal-cap guides. The
+Hall's upper portrait wall becomes black exterior space, and a continuous blue
+cap replaces its left lantern; the refreshed-scene lantern effect is disabled
+for that removed fixture. The gold display, right lantern and Piano Lab stay
+in place. The lounge cap now runs straight into both corners, with its exterior
+face extended downward; the club cap beneath it is level. Only newly covered
+lounge masonry receives collision blocks, leaving the exit corridor open.
+Both passes use explicit crop placements and protected regions to retain the
+other accepted artwork and repairs.
+
 ## DJ stage lighting
 
 The four-head rig above DJ Coda projects colored beams and soft pools of light
